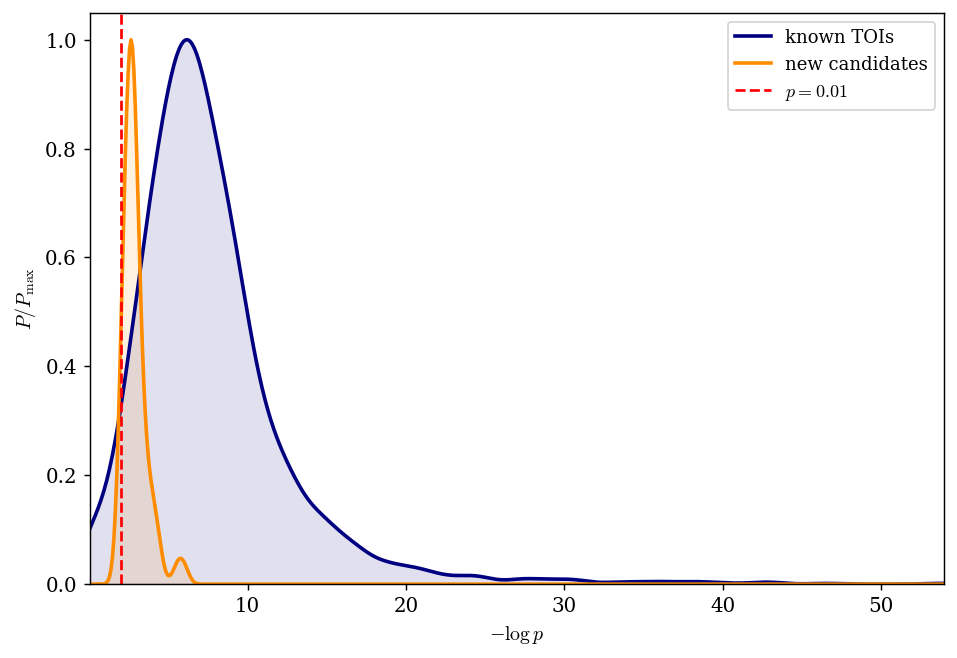
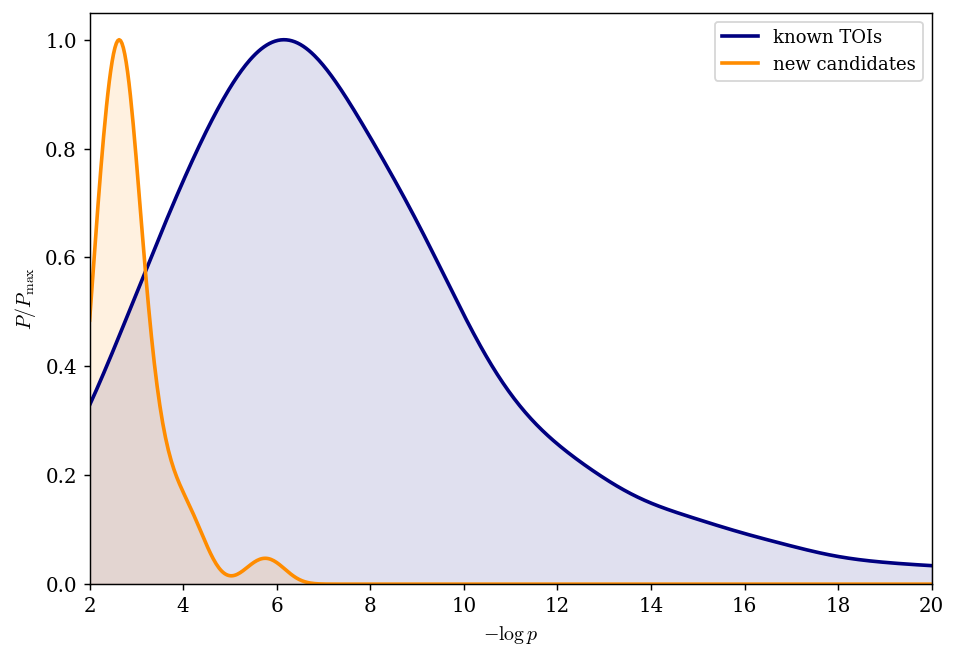
Fix habitable-zone description; set p-value-distribution x-range to (2, 20)
- overview.md: correct the HZ paragraph. Of the three HZ objects flagged by earlier, less
  conservative candidate lists, two were removed by the transit-count/NST-floor cuts and only one by
  the p>0.01 Singh-Maddala cut, so the previous "all marginal p" wording was wrong. Now: none of the
  63 significant new candidates falls in the HZ; the earlier ones did not survive the tightened cuts.
- overview_pvalue_dist.png: x-axis now limited to -log p in (2, 20) (from the p=0.01 cut), dropping
  the redundant threshold line.

diff --git a/plot_overview_figs.py b/plot_overview_figs.py
@@ -107,15 +107,13 @@ def fig_pdist():
     kk = -known.loc[known["passed_all_tests"] == True, "log10(p value)"].to_numpy(float)
     nn = -new["log10(p value)"].to_numpy(float)
     kk = kk[np.isfinite(kk)]; nn = nn[np.isfinite(nn)]
-    xmax = max(kk.max(), nn.max())
-    xg = np.linspace(0.01, xmax, 600)
+    xg = np.linspace(2, 20, 600)                              # x from the p=0.01 cut out to -log p = 20
     fig, axx = plt.subplots(figsize=(7.5, 5.2))
     for data, col, lab in [(kk, "navy", "known TOIs"), (nn, "darkorange", "new candidates")]:
         y = gaussian_kde(data)(xg); y = y / y.max()          # P / P_max
         axx.plot(xg, y, color=col, lw=2, label=lab)
         axx.fill_between(xg, y, color=col, alpha=0.12)
-    axx.axvline(2, color="red", ls="dashed", lw=1.5, label=r"$p = 0.01$")
-    axx.set_xlim(0.01, xmax); axx.set_ylim(0, None)
+    axx.set_xlim(2, 20); axx.set_ylim(0, None)
     axx.set_xlabel(r"$-\log p$"); axx.set_ylabel(r"$P/P_{\max}$"); axx.legend(fontsize=10)
     fig.tight_layout(); fig.savefig(f"{HERE}/overview_pvalue_dist.png", dpi=130, bbox_inches="tight")
     plt.close(fig); print("wrote overview_pvalue_dist.png")

diff --git a/overview.md b/overview.md
@@ -236,11 +236,11 @@ marks candidates that fail at least one vetting test.
 
 ![TESS candidates: insolation–Teff diagram with HZ overlays](habitable_zone.png)
 
-None of the 63 significant new candidates ($p \le 0.01$) lands inside the
-habitable zone. The few that did under the old Gaussian significance turn out to
-be only marginal ($p > 0.01$) under the heavy-tailed Singh-Maddala model, and so
-are excluded. For comparison, 20 of the 5 190 known TOIs lie in the optimistic
-zone (19 pass all vetting tests) and 12 in the conservative zone (all 12 pass).
+None of the 63 significant new candidates ($p \le 0.01$) falls inside the
+habitable zone; the few objects flagged by earlier, less conservative selections
+did not survive the tightened transit-count and Singh-Maddala significance cuts.
+For comparison, 20 of the 5 190 known TOIs lie in the optimistic zone (19 pass all
+vetting tests) and 12 in the conservative zone (all 12 pass).
 
 ### Kepler candidates (Robnik et al. 2026)
 
